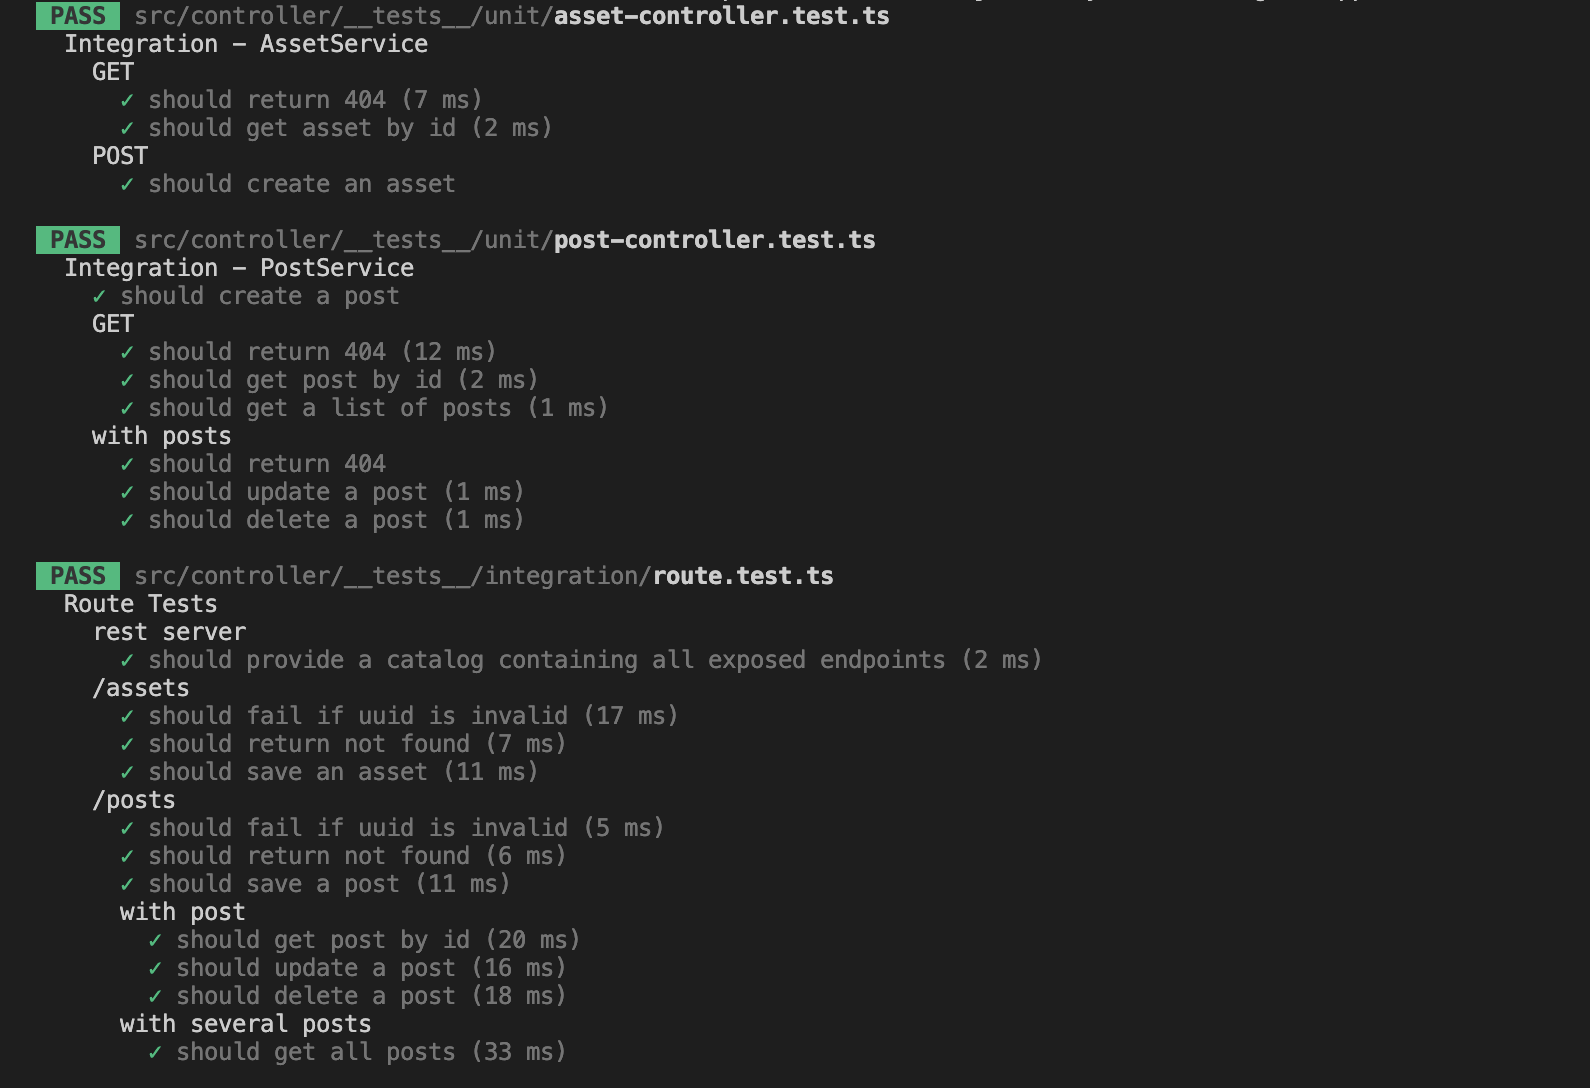
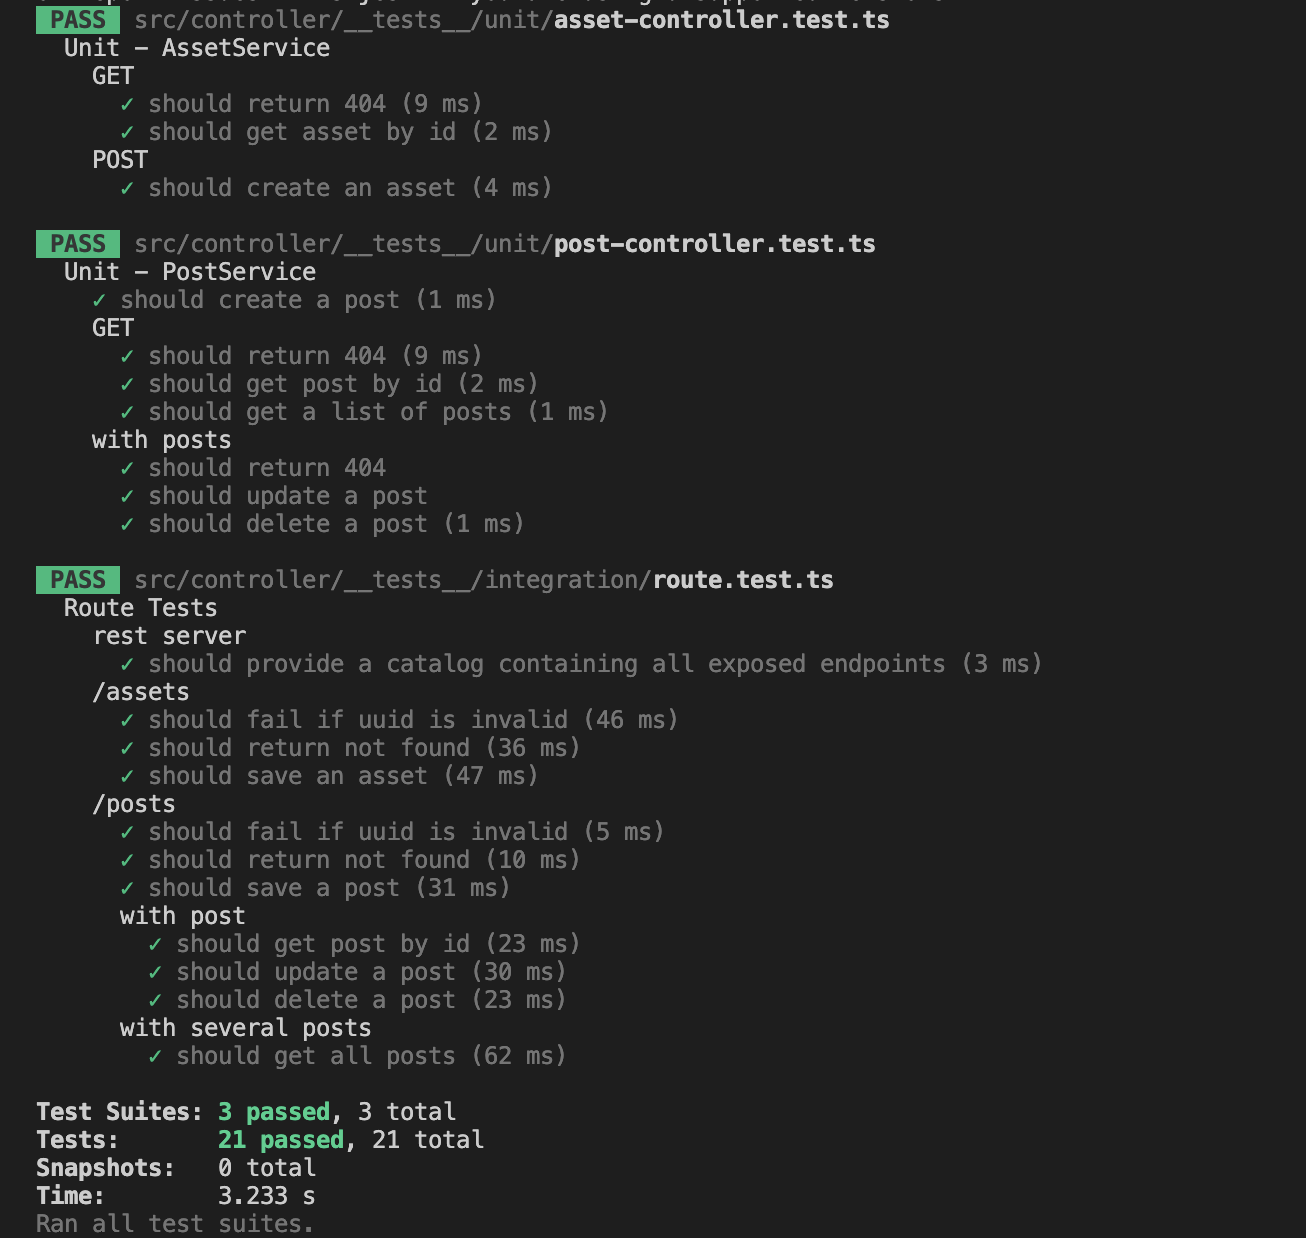
update unit tests

Changed region(s): [[0.0, 0.0, 0.7351, 1.0], [0.5207, 0.4375, 0.6126, 0.5], [0.7657, 0.5312, 0.7963, 0.5625]]

diff --git a/src/controller/__tests__/unit/asset-controller.test.ts b/src/controller/__tests__/unit/asset-controller.test.ts
@@ -3,7 +3,7 @@ import { AssetType } from "../../../model/asset"
 import { AssetService } from "../../../service/asset-service"
 import { mockOf } from "../../../__tests__/mockOf"
 
-describe('Integration - AssetService', () => {
+describe('Unit - AssetService', () => {
   const assetService = mockOf<AssetService>()
   const assetController = new AssetController(assetService)
 

diff --git a/src/controller/__tests__/unit/post-controller.test.ts b/src/controller/__tests__/unit/post-controller.test.ts
@@ -3,7 +3,7 @@ import { PostType } from "../../../model/post"
 import { PostService } from "../../../service/post-service"
 import { mockOf } from "../../../__tests__/mockOf"
 
-describe('Integration - PostService', () => {
+describe('Unit - PostService', () => {
   const postService = mockOf<PostService>()
   const postController = new PostController(postService)
 
